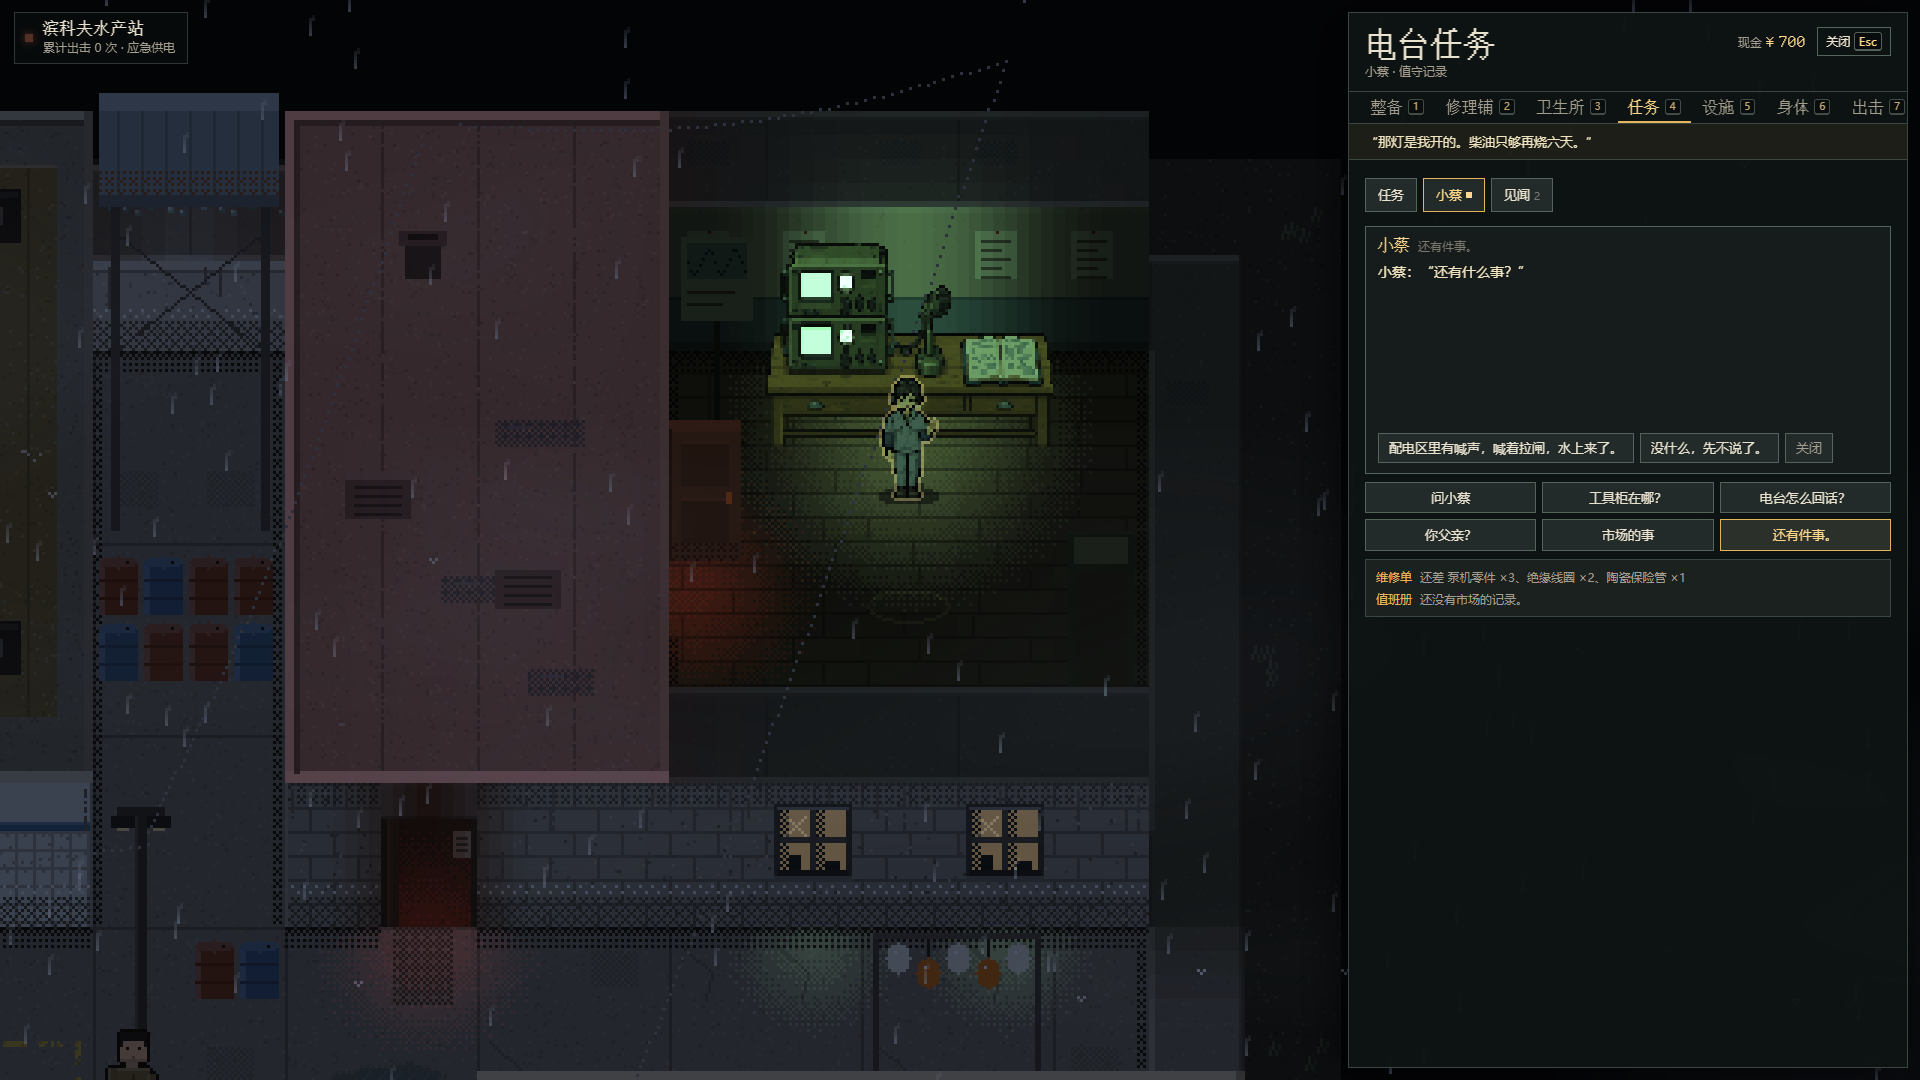
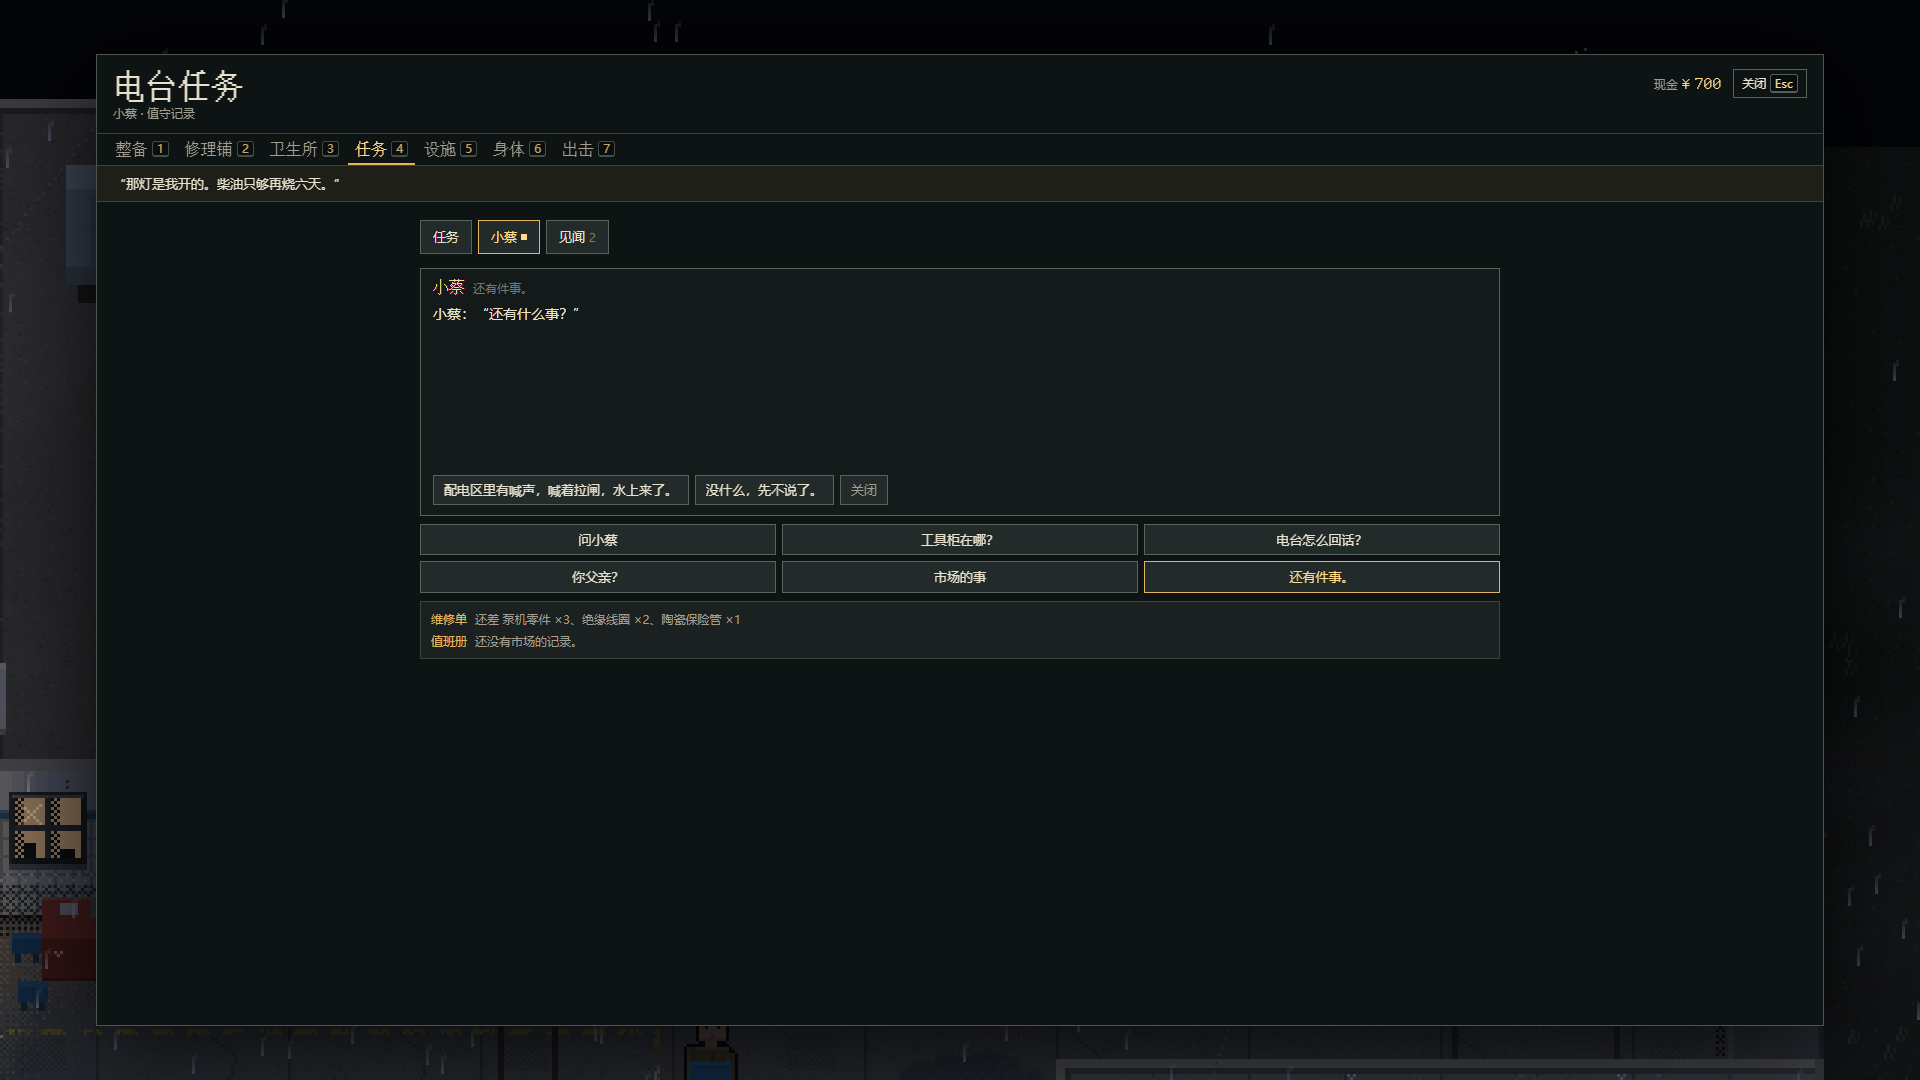
test(story): #83 market view follows #170 type and frame; new screenshots
test:market-view now applies station H20's type rule (desktop text at
least 12 px, the pixel face only at 16 / 32 px) to the yard's tasks page
with the 小蔡 card, the talk and recall pages (1280 and 1920) and the
raid subtitle and recall panel, and checks the shared frame stays put
across the radio sub-pages. On the pre-merge build M1 fails (11 px text
in the 小蔡 card).

All 16 front-end screenshots retaken on the merged build, adding the
1920 tasks page and the phone recall panel; task doc, handoff and work
queue record the merge.

diff --git a/docs/tasks/market-story-core.md b/docs/tasks/market-story-core.md
@@ -55,9 +55,11 @@ v2–v9 先按各自原规则严格解码，再补空见闻与选择；只有已
 - 声音（`SynthAudio.knocks` / `call`）：冷柜两下闷响，配电区方向一段远处含混的喊声（合成，没有词），按锚点定位声像。音量为零时字幕和见闻信息不变。
 - 见闻：右上「见闻 · N」按钮或 J 键，打开阻塞面板，世界照常运行（同原阅读面板）；E、J、Esc、失焦都会关闭，行动结束不留面板。新世界的任务卡里“让灯亮起来”下多两行：维修单原话的位置，以及总闸“可选／已确认，回站可以告诉小蔡／小蔡已记下”。
 
+**跟随 #170 的统一样式（2026-11-02）。** 合入 main `33adc85b`（#163 第二批）后，院子的小蔡卡片、对话页、见闻页，以及行动内的字幕和见闻面板，都改用 [ui-tokens.css](../../src/ui-tokens.css) 的变量：背景按原明度归到 `--ui-n1`–`n3`，台词和见闻正文用 `--ink`（n14）；行动字幕左边线原来是卡其色，现在改成统一的琥珀色 `--cs-accent`。桌面上原来 11px 的小字提到 12px，小字和正文用系统字，像素字只用在 16px 的标题上。电台面板改用共用的居中框（距窗口 12px，大窗口 5vh 5vw）。任务、小蔡、见闻三个子页和其他文字页签一样，最宽 1080px、居中，切换子页时框不变；对话框高度仍固定 248px。手机布局没有改。地图上工具柜的标记原本就是 `#e2b45c`，也就是 `--ui-a`。
+
 **世界生成的一处修正。** 接线时发现普通物资箱会落在配电箱锚点上：种子 1–300 中有 27 个种子的普通箱离锚点不到 40px（种子 42 的 `crate-8` 正好在 (29,40)），玩家站到那里按 E，第一次会去检查总闸而不是开箱；`test:loot` 的开箱步骤因此失败。市场片段要求“容器和观察点不重叠”，原保护只覆盖工具柜。现把 `protectMarketCabinet` 改为 [market-world.ts](../../src/market-world.ts) 的 `protectMarketAnchors`：工具柜和配电箱两个圆（各 43px）内的初始箱子、散落物和普通敌人都按原规则迁到同图最近的合法落点，身份与物品不变，固定岗位仍在圆外。只影响新部署；已存行动不重新生成。[market-story.test.ts](../../tests/market-story.test.ts) 的部署检查加上配电箱距离并纳入种子 42；还原生成代码时该断言在种子 1 即失败（负对照）。前端的距离／稳定 ID 仲裁保留，用于尸体等后来出现在旁边的目标。
 
-**前端验证。** [market-story-view-test.mjs](../../scripts/market-story-view-test.mjs)（`pnpm test:market-view`，CI batch-3）12 步：院子对话与关闭不写入、院子对话随切窗口／页面隐藏／离开页面释放且不替玩家选（聚焦回答后按 Enter／空格、按住鼠标跨切窗口、供电动画期间隐藏页面；未修时聚焦的“报告”会被 Enter 提交，负对照记录在 PR）、报告／暂不说／告诉与值班册、写入失败保留话题和重试、经对话交付后回到回应且只发一次奖励、两个出击入口都进 `coast-story-v1`、静音下三处线索的字幕与见闻、危险消息优先与过时丢弃、刷新恢复不重播、失焦与超时释放面板、手机横屏触控与字幕不压危险信息、1920×1080 截图。两条路线的自然计时机器人见 [market-route-play.mjs](../../scripts/market-route-play.mjs)；结果和仍需真人的项目记录在 PR。默认出击改为市场世界后，`test:browser` 与 `test:loot` 的“60 条原始投放守恒”期望改由出击前存档的 `marketRunConfig` 计算（未放宽），raid-default 与 coast-sample 的世界 ID 断言改为 `coast-story-v1`；短屏触屏上「见闻」按钮多占 52px，任务列表上限相应减少，`test:qol` 的“展开任务卡不压触屏按钮”保持通过。
+**前端验证。** [market-story-view-test.mjs](../../scripts/market-story-view-test.mjs)（`pnpm test:market-view`，CI batch-3）12 步：院子对话与关闭不写入、院子对话随切窗口／页面隐藏／离开页面释放且不替玩家选（聚焦回答后按 Enter／空格、按住鼠标跨切窗口、供电动画期间隐藏页面；未修时聚焦的“报告”会被 Enter 提交，负对照记录在 PR）、报告／暂不说／告诉与值班册、写入失败保留话题和重试、经对话交付后回到回应且只发一次奖励、两个出击入口都进 `coast-story-v1`、静音下三处线索的字幕与见闻、危险消息优先与过时丢弃、刷新恢复不重播、失焦与超时释放面板、手机横屏触控与字幕不压危险信息、1920×1080 截图。另外按 #170 的规则检查字号（同 station H20：桌面文字不小于 12px，像素字只用 16/32px）：M1、M2、M11（1920）检查任务页、对话页和见闻页，并核对切换子页时框不变；M6 检查行动字幕和见闻面板。用合并前的构建跑 M1，这项会失败（小蔡卡片里有 11px 的字）。两条路线的自然计时机器人见 [market-route-play.mjs](../../scripts/market-route-play.mjs)；结果和仍需真人的项目记录在 PR。默认出击改为市场世界后，`test:browser` 与 `test:loot` 的“60 条原始投放守恒”期望改由出击前存档的 `marketRunConfig` 计算（未放宽），raid-default 与 coast-sample 的世界 ID 断言改为 `coast-story-v1`；短屏触屏上「见闻」按钮多占 52px，任务列表上限相应减少，`test:qol` 的“展开任务卡不压触屏按钮”保持通过。
 
 ## 验证及未验
 

diff --git a/docs/WORK-QUEUE.md b/docs/WORK-QUEUE.md
@@ -1,6 +1,6 @@
 # 当前任务入口
 
-当前授权任务：**[#83 市场剧情底层](tasks/market-story-core.md)**，[PR #168](https://github.com/xuys2025/escape-bincov/pull/168)，`feat/story-market-83`，基线 main `8a28da9873e5188e13053f894e5b6bbb0ae10dc8`。2026-11-01 维护者明确“做非前端表现的事情，前端让 Opus 专家做”。本阶段负责确定补给、见闻/选择/对白条件、单记录存档迁移与 Runtime 接口；Opus 接续场景、面板、字幕/音效和输入。同日 Opus 在同一分支接上前端并启用默认市场出击（[前端接入](tasks/market-story-core.md#前端接入opus2026-11-01)），真人试玩仍待做。#83 总单保持开放，同一承接 PR 完成后续接线与验收；#164 是文学文档交付，#161 是独立任务节奏线，不在本分支合并或改动。
+当前授权任务：**[#83 市场剧情底层](tasks/market-story-core.md)**，[PR #168](https://github.com/xuys2025/escape-bincov/pull/168)，`feat/story-market-83`，基线 main `8a28da9873e5188e13053f894e5b6bbb0ae10dc8`。2026-11-01 维护者明确“做非前端表现的事情，前端让 Opus 专家做”。本阶段负责确定补给、见闻/选择/对白条件、单记录存档迁移与 Runtime 接口；Opus 接续场景、面板、字幕/音效和输入。同日 Opus 在同一分支接上前端并启用默认市场出击（[前端接入](tasks/market-story-core.md#前端接入opus2026-11-01)）；11-02 已同步 main `33adc85b`（#170 统一样式与面板框），真人试玩仍待做。#83 总单保持开放，同一承接 PR 完成后续接线与验收；#164 是文学文档交付，#161 是独立任务节奏线，不在本分支合并或改动。
 
 本轮原子任务：**[前端精致度第二批：共用变量、固定面板框、格子随屏幕放大](tasks/ui-polish-batch2.md)**（[#163](https://github.com/xuys2025/escape-bincov/issues/163) 第二批），分支 `fix/ui-polish-batch2`，基线 main `ca59605e`，叠在第一批 [PR #165](https://github.com/xuys2025/escape-bincov/pull/165) 的 head `43c2ee3b` 上：**先合 #165 再合本批**。维护者从三套原型里选了配色 A（院子琥珀）和“居中统一大框”：颜色、字号、间距收进 `src/ui-tokens.css`，各样式表不再写死颜色；院子七个页签（含出击）共用一个居中框；桌面文字不小于 12px，像素字只用 16/32px；1920 下院子、旧页签商店、行动背包格子放大到 72–73px。只改显示，存档与规则不变。验证见任务页；准确 head、CI 与合并以承接 PR 为准，真人/真机未验。
 

diff --git a/handoff.md b/handoff.md
@@ -6,6 +6,7 @@
 - 验证：新增 `test:market-view` 12 步（CI batch-3）；细节和路线计时见 [接入说明](docs/tasks/market-story-core.md#前端接入opus2026-11-01) 与 PR。
 - 世界生成一处修正：普通物资箱会落在总闸锚点上（种子 1–300 中 27 个），首次 E 被总闸拿走、`test:loot` 失败；保护区由工具柜扩到两个锚点（`protectMarketAnchors`），只迁移初始实体，有负对照。
 - 2026-11-02 补修：站内小蔡对话在切窗口、页面隐藏、离开页面后原样留着且会话没释放，回来按 Enter 会提交聚焦的回答。现在三种信号都结束对话（含供电动画期间暂存的会话），对话框原位回到话题列表；回归为 M12。
+- 2026-11-02 合入 main `33adc85b`（#170 第二批 UI 打磨）。冲突在 `station-view/ui.ts`（main 删了 `inset`，保留小蔡会话和失焦释放）、`coast-view/host.ts`（保留 main 的 `--cs-dock`，并保留总闸提示）、`coast.css` 和两份文档。小蔡卡片、对话页、见闻页和行动字幕改用统一变量，桌面 11px 的字提到 12px，电台面板改用共用居中框。market-view 加了字号和框的检查，截图全部重拍，并新增 1920 任务页和手机见闻两张。
 - 待真人：真机听感与触屏、两条路线的真人自然试玩、跳过长对白／主动调查的理解、站内对话节奏。#83 未完成，未合并、未部署。
 
 ## 2026-11-01 · #83 市场剧情：底层完成，前端交给 Opus
